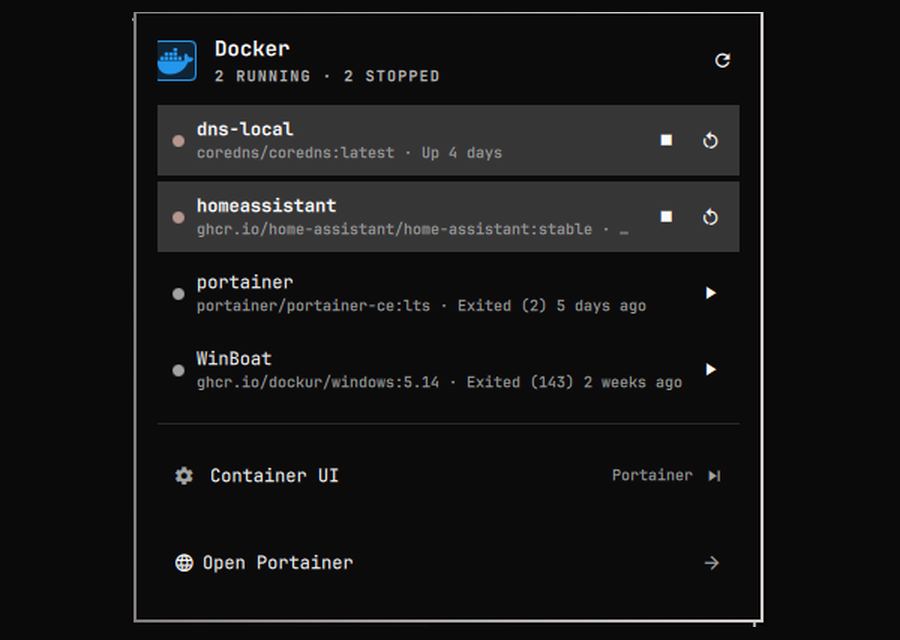
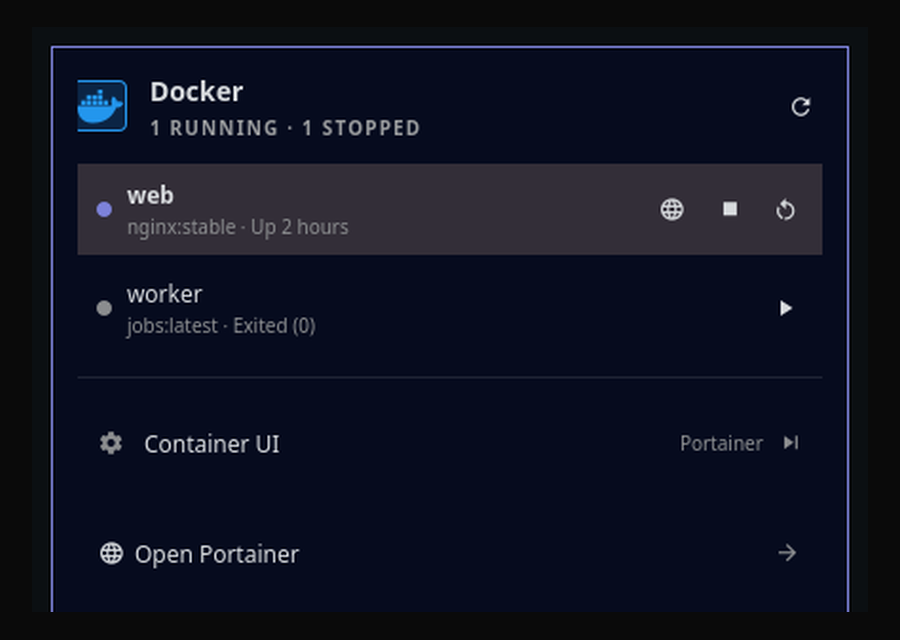
feat: quitar Voxtype y Power Saver, agregar Servicios Web, fotos sin datos personales y descripciones claras

diff --git a/portfolio/lib/i18n/translations.ts b/portfolio/lib/i18n/translations.ts
@@ -29,10 +29,9 @@ export const translations = {
       tpp: 'Sistema de potencia eléctrica para satélites CubeSat con gestión de baterías en C/STM32.',
       linda: 'App de localización en tiempo real con privacidad garantizada mediante TEE y blockchain.',
       votacion: 'Sistema de votación para asambleas barriales con resultados en tiempo real.',
-      omarchyDocker: 'Widget de Docker para Omarchy: contenedores, estado, controles y enlaces a servicios desde la barra.',
-      omarchyVoxtype: 'Indicador de estado del dictado por voz (Voxtype) en la barra de Omarchy.',
-      omarchyPower: 'Cambia a modo ahorro y apaga las pantallas tras un tiempo de inactividad, para Omarchy.',
-      btParking: 'Para no perder el auto: detecta el Bluetooth del vehículo y guarda dónde estacionaste.',
+      omarchyDocker: 'Widget de la barra de Omarchy para manejar Docker sin abrir la terminal: lista tus contenedores con su estado, permite iniciar, detener y reiniciar cada uno, abrir su servicio en el navegador y entrar a Portainer.',
+      serviciosWeb: 'Widget de la barra de Omarchy que reúne todos los servidores web locales en un panel: ves cuáles están encendidos, cada uno con su URL estable, y con un click los abrís, prendés o apagás, sin recordar puertos ni comandos.',
+      btParking: 'App Android que guarda tu ubicación GPS en el momento en que se desconecta el Bluetooth del auto, para que siempre sepas dónde estacionaste.',
     },
     contact: {
       heading: '¿Hablamos?',
@@ -75,10 +74,9 @@ export const translations = {
       tpp: 'Electrical power system for CubeSat satellites with battery management in C/STM32.',
       linda: 'Real-time location app with privacy guaranteed by TEE and blockchain.',
       votacion: 'Voting system for neighborhood assemblies with real-time results.',
-      omarchyDocker: 'Docker widget for Omarchy: containers, status, controls and service links right in the bar.',
-      omarchyVoxtype: 'Voice dictation (Voxtype) state indicator for the Omarchy bar.',
-      omarchyPower: 'Switches to power-saver and turns displays off after idle, for Omarchy.',
-      btParking: "Never lose your car: detects the car's Bluetooth and remembers where you parked.",
+      omarchyDocker: 'Omarchy bar widget to manage Docker without a terminal: lists your containers with their status, lets you start, stop and restart each one, open its service in the browser and jump to Portainer.',
+      serviciosWeb: 'Omarchy bar widget that gathers all local web servers in one panel: see which are running, each with its stable URL, and open, start or stop them with a click, no ports or commands to remember.',
+      btParking: "Android app that saves your GPS location the moment your car's Bluetooth disconnects, so you always know where you parked.",
     },
     contact: {
       heading: "Let's talk?",

diff --git a/portfolio/app/components/Projects.tsx b/portfolio/app/components/Projects.tsx
@@ -18,19 +18,10 @@ export default function Projects() {
         <div style={{ display: 'grid', gridTemplateColumns: 'repeat(3, 1fr)', gap: '1rem' }}
           className="projects-grid">
           <ProjectGridCard
-            name="Omarchy Power Saver"
-            tag="Linux · Energía"
-            description={t.projects.omarchyPower}
-            href="https://github.com/juan-LARRAYA/omarchy-power-saver"
-            image="/images/projects/omarchy-power-saver.png"
-            dark
-          />
-          <ProjectGridCard
-            name="Omarchy Voxtype"
-            tag="Linux · Voz"
-            description={t.projects.omarchyVoxtype}
-            href="https://github.com/juan-LARRAYA/omarchy-voxtype"
-            image="/images/projects/omarchy-voxtype.png"
+            name="Servicios Web"
+            tag="Linux · Widget"
+            description={t.projects.serviciosWeb}
+            image="/images/projects/servicios-web.png"
             dark
           />
           <ProjectGridCard

diff --git a/portfolio/app/components/ProjectGridCard.tsx b/portfolio/app/components/ProjectGridCard.tsx
@@ -6,7 +6,7 @@ import Image from 'next/image';
 interface ProjectCardProps {
   name: string;
   description: string;
-  href: string;
+  href?: string;
   image?: string;
   tag?: string;
   dark?: boolean;
@@ -16,7 +16,7 @@ interface ProjectCardProps {
 }
 
 export default function ProjectGridCard({ name, description, href, image, tag, dark = false, contain = false, imgPosition = 'top', compact = false }: ProjectCardProps) {
-  const isExternal = href.startsWith('http');
+  const isExternal = Boolean(href?.startsWith('http'));
   const bg = 'var(--bg-medium)';
   const textColor = 'var(--text-primary)';
 
